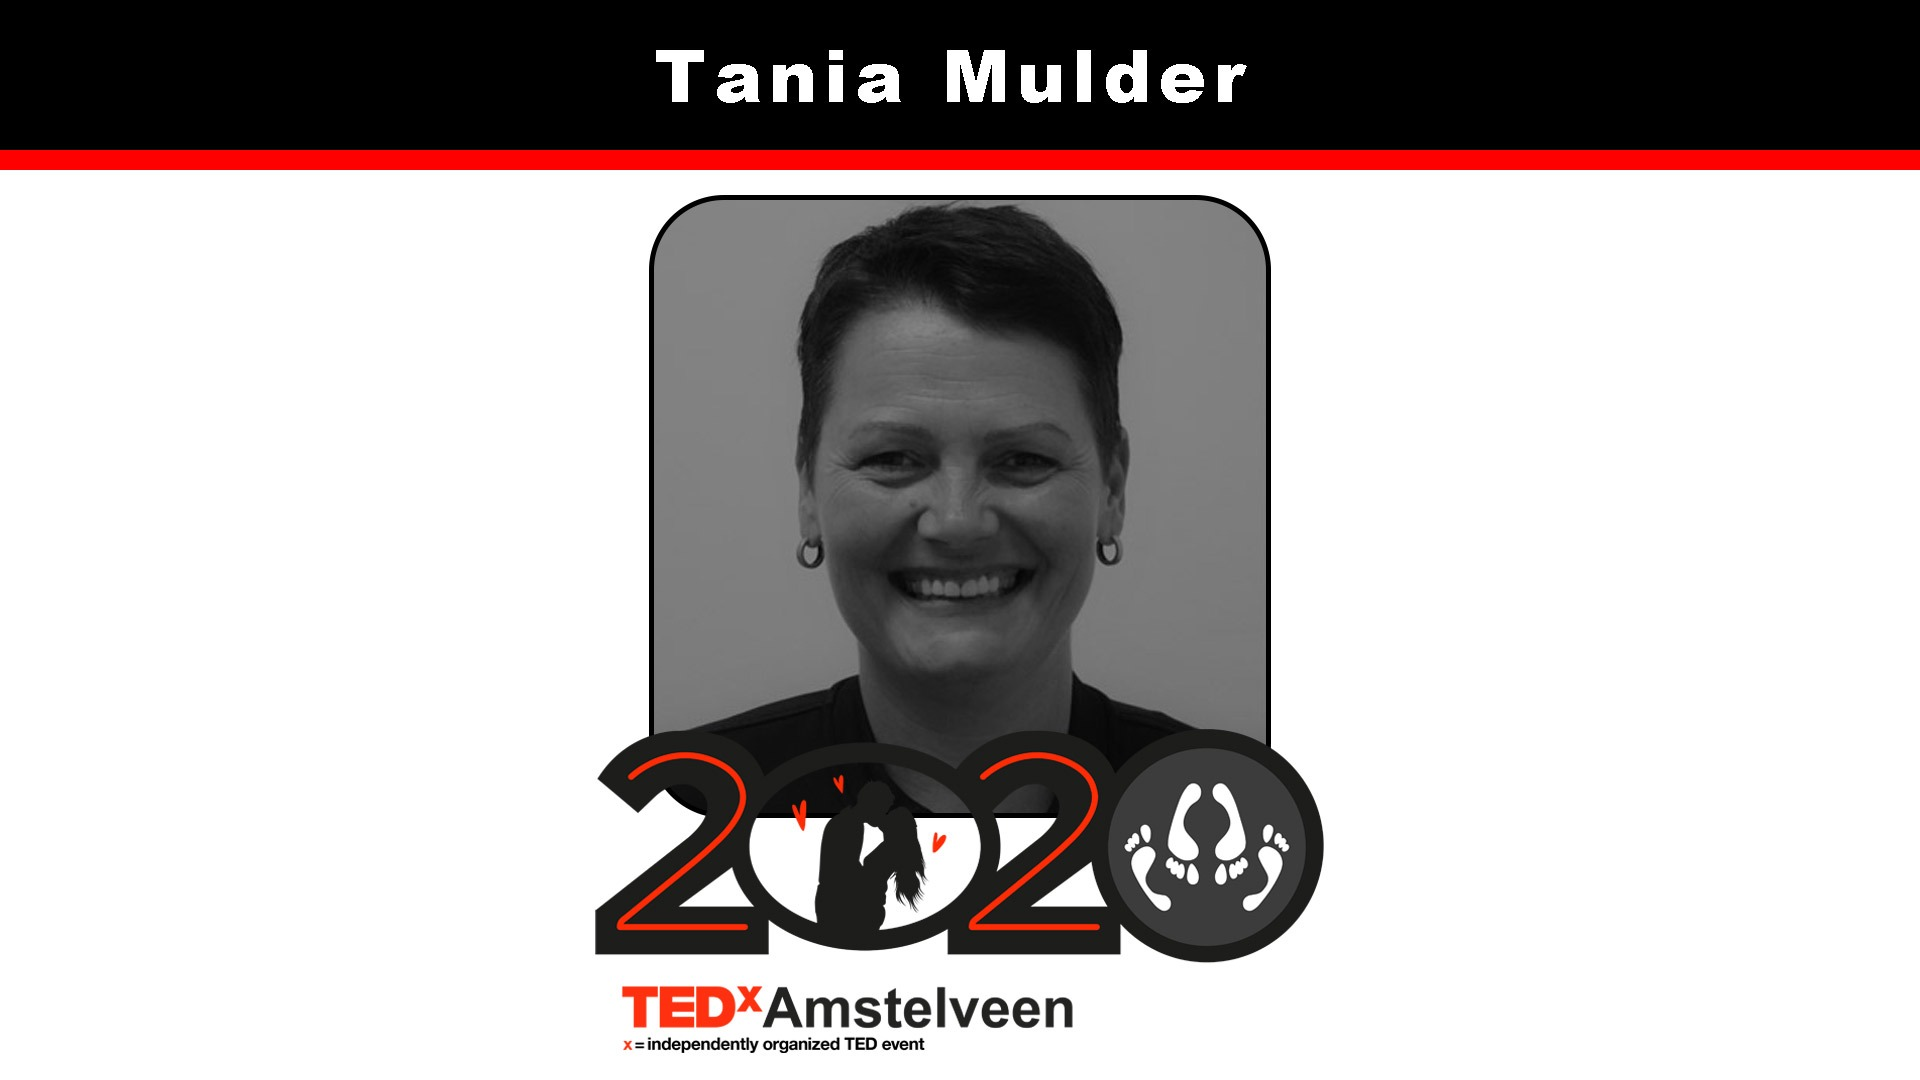
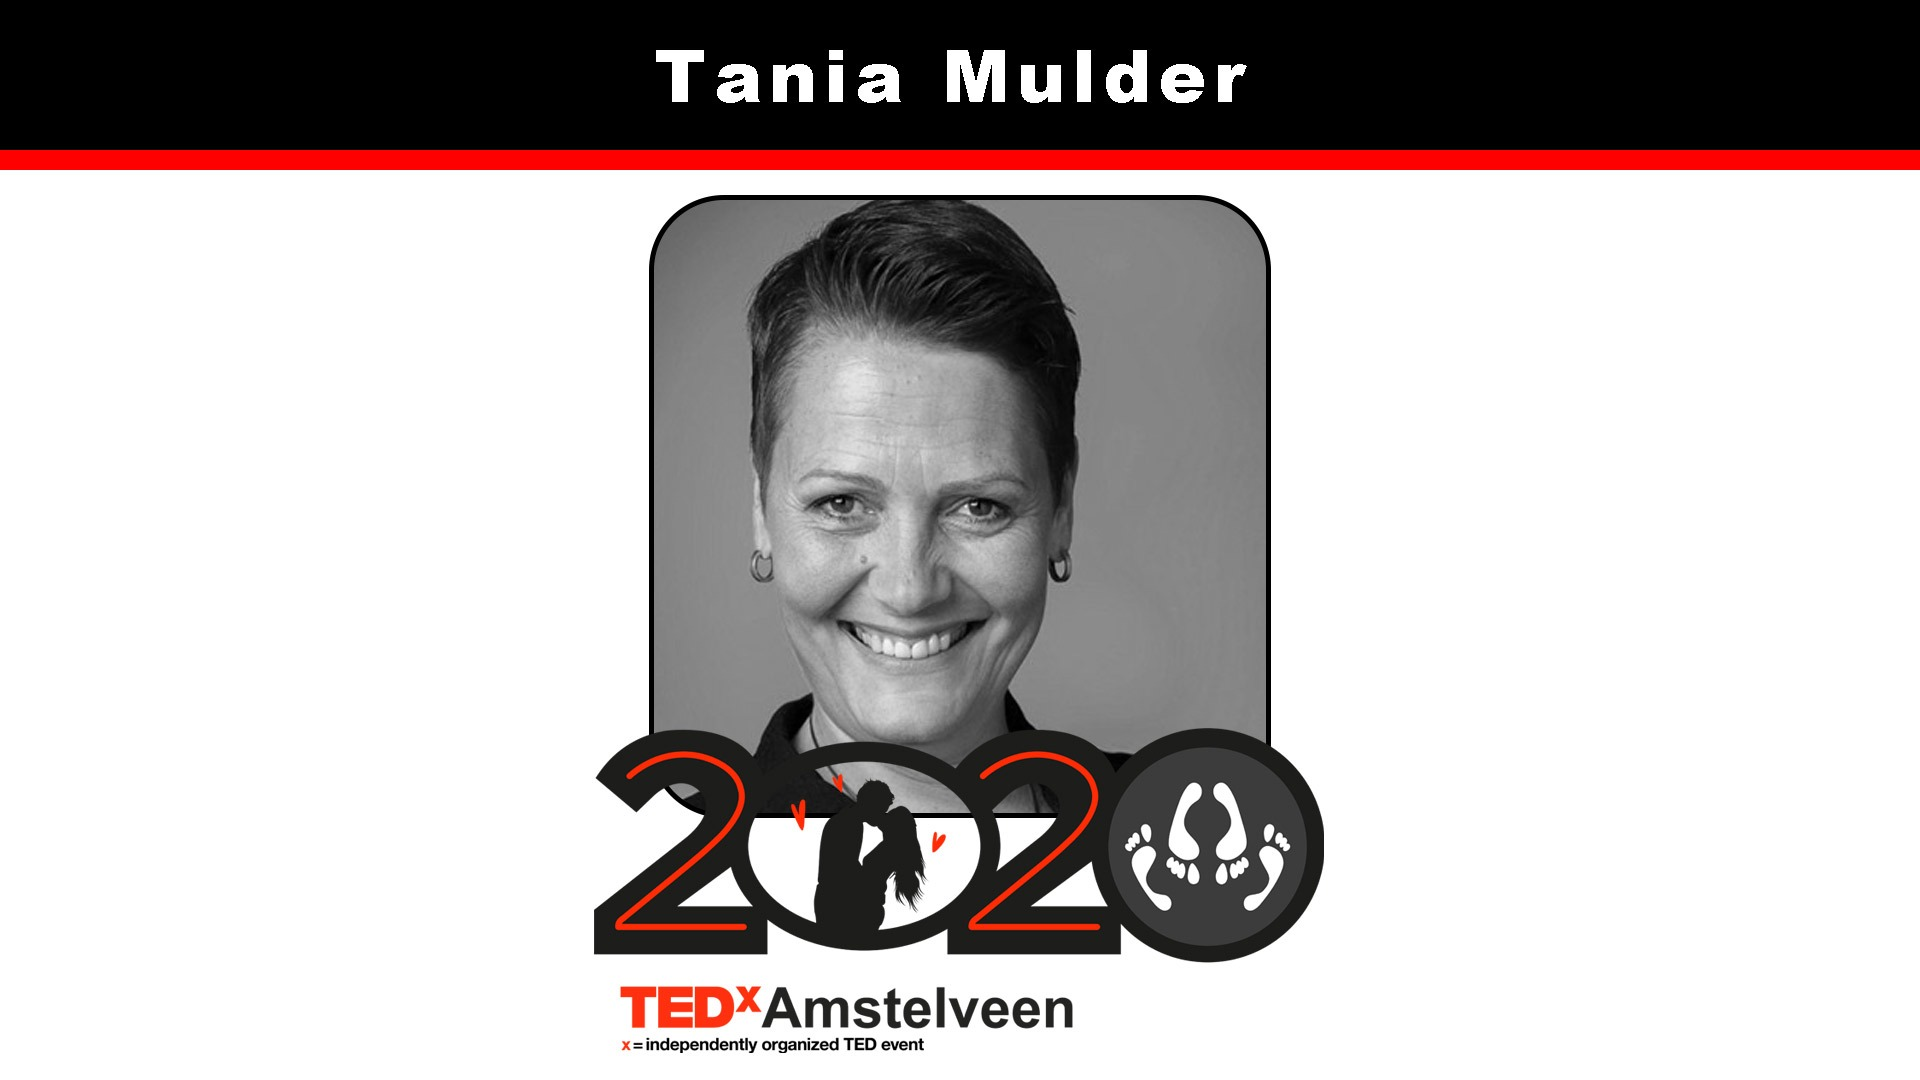
add 2 new sprekers + add updated images

diff --git a/sprekers/tania-mulder/index.html b/sprekers/tania-mulder/index.html
@@ -1,0 +1,29 @@
+---
+title: Tania Mulder
+layout: page
+description: Tania Mulder
+assets: assets/sprekers/tania-mulder.jpg
+social: assets/sprekers/social/tania-mulder.jpg
+assets1: assets/sprekers/topic/tania-mulder.jpg
+height: 150
+width: 150
+linkedin: tania-mulder-756119aa
+twitter: goedeminaar
+instagram:
+facebook: coachTaniaMulder
+website: https://www.goedeminnaar.nl/
+tedx-youtube-video:
+nav: members
+banner: yes
+---
+{% include img.html %}
+
+<p>What the world needs now is …. een gezond liefdesleven.</p>
+<p>We doen het allemaal en we vinden er allemaal wat van. Maar we praten er niet over. De enige informatie die we tot ons krijgen is vaak van internet en dit is meestal platte seks. Meer dan 60% van de Nederlanders is niet tevreden of heeft issues in bed. Denk aan; geen zin, moeilijk of te snel klaarkomen en pijn tijdens het vrijen. Tania Mulder is intimiteitscoach en heeft een bloeiende praktijk waarin ze stellen helpt met hun liefdesleven. Na Tania’s talk zullen veel seksuele relaties dan ook ingrijpend veranderen en de wereld een stuk liefdevoller worden.</p>
+
+
+<div class="author-section mb4">
+  <a title="{{ page.title }}" href="{{ page.url }}">
+    <amp-img class="author-post" height="315" width="700" alt="{{ page.title }}" layout="responsive" src="{{ site.url }}/{{ page.assets1 }}"></amp-img>
+  </a>
+</div>

diff --git a/sprekers/joost-baltussen/index.html b/sprekers/joost-baltussen/index.html
@@ -1,0 +1,29 @@
+---
+title: Joost Baltussen
+layout: page
+description: Joost Baltussen
+assets: assets/sprekers/joost-baltussen.jpg
+social: assets/sprekers/social/joost-baltussen.jpg
+assets1: assets/sprekers/topic/joost-baltussen.jpg
+height: 150
+width: 150
+linkedin: joost-baltussen-838628a
+twitter:
+instagram:
+facebook:
+tedx-youtube-video:
+nav: members
+banner: yes
+---
+{% include img.html %}
+
+<p>What the world needs now is… orgaanfitness.</p>
+<p>Bij fitness denk je al snel aan het trainen van spieren. Maar dat de beweeglijkheid van je orgaan direct invloed heeft op je gezondheid zijn weinig mensen zich van bewust.
+Joost Baltussen is osteopaat en heeft ruim 23 jaar een eigen praktijk. Hij ziet dagelijks de relatie tussen deze beweeglijkheid van de organen en de klacht waar mensen mee komen.
+Op 17 mei vertelt hij hoe dit te verklaren is en wat je zelf kunt doen om je organen fit te houden?</p>
+
+<div class="author-section mb4">
+  <a title="{{ page.title }}" href="{{ page.url }}">
+    <amp-img class="author-post" height="315" width="700" alt="{{ page.title }}" layout="responsive" src="{{ site.url }}/{{ page.assets1 }}"></amp-img>
+  </a>
+</div>
